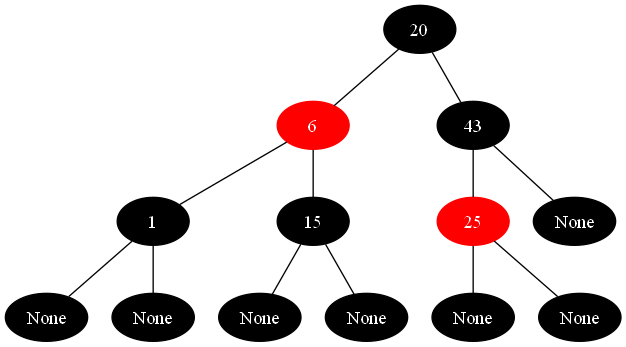
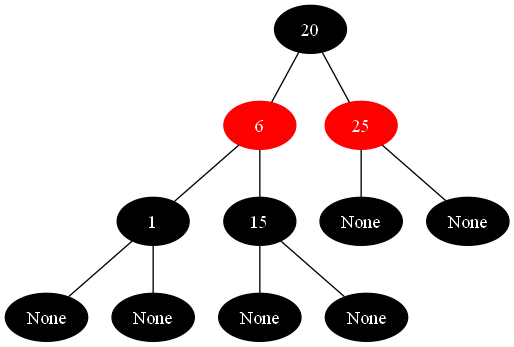
Fixed

diff --git a/src/main.rs b/src/main.rs
@@ -700,7 +700,7 @@ fn main() {
     rb_tree.delete(5);
     rb_tree.delete(30);
     rb_tree.delete(10);
-    // rb_tree.delete(43);
+    rb_tree.delete(43);
     let mut dot_file = Dotfile::new("./rbt_after_delete.dot");
     rb_tree.draw_tree(&mut dot_file);
     dot_file.write_file();
